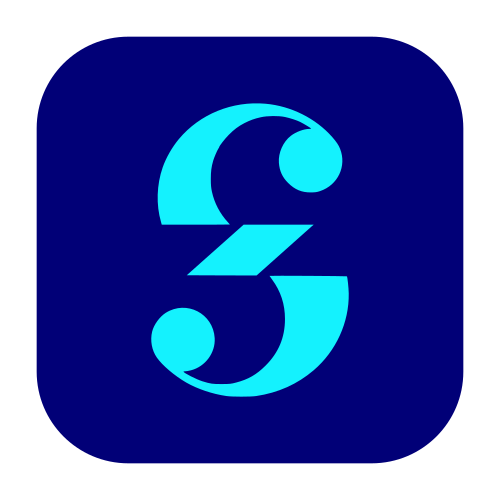
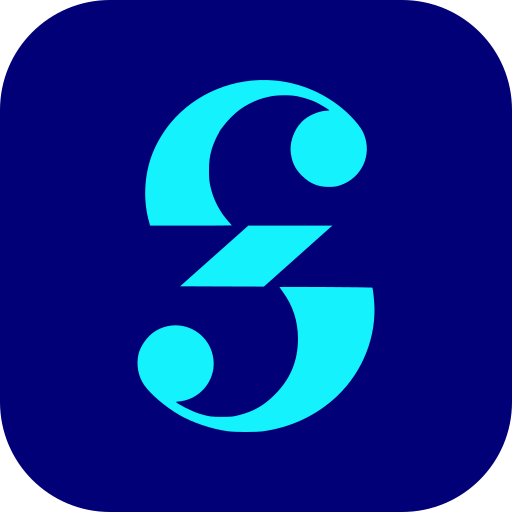
la28

diff --git a/resume/index.html b/resume/index.html
@@ -205,6 +205,17 @@
             <h2>Volunteering</h2>
             <div class="module-item">
                 <div class="module-left">
+                    <img src="img/la28.gif" alt="Logo" class="module-img">
+                </div>
+                <div class="module-right">
+                    <h3>Community Volunteer <span class="tag">Environment</span></h3>
+                    <h4><a href="https://la28.org/en/about-la28.html" target="_blank">LA28 Olympic & Paralympic Games</a></h4>
+                    <h6>Aug 2026 - Present</h6>
+                    <p>Venue city sustainability and restoration</p>
+                </div>
+            </div>
+            <div class="module-item">
+                <div class="module-left">
                     <img src="img/musescore.png" alt="Logo" class="module-img">
                 </div>
                 <div class="module-right">
@@ -230,10 +241,10 @@
                     <img src="img/asdan.png" alt="Logo" class="module-img">
                 </div>
                 <div class="module-right">
-                    <h3>Teacher <span class="tag">Education</span></h3>
+                    <h3>ESL Teacher <span class="tag">Education</span></h3>
                     <h4><a href="https://www.asdan.org.uk/about-us" target="_blank">ASDAN</a></h4>
                     <h6>Feb 2021 - Mar 2021</h6>
-                    <p>Online ESL education for rural children</p>
+                    <p>Online tutoring for rural Chinese children</p>
                 </div>
             </div>
         </section>
@@ -263,12 +274,12 @@
                 <div class="skill-item">Signal Processing</div>
                 <div class="skill-item">Control Systems</div>
                 <div class="skill-item">Electromagnetic Systems</div>
-                <div class="skill-item">Communication Systems</div>
+                <div class="skill-item">Communications Systems</div>
                 <div class="skill-item">Computer Architecture</div>
                 <div class="skill-item">Embedded Computing</div>
                 <div class="skill-item">Software Development</div>
-                <div class="skill-item">Music Composition</div>
                 <div class="skill-item">Interactive Media</div>
+                <div class="skill-item">Music Composition</div>
             </div>
         </section>
 
